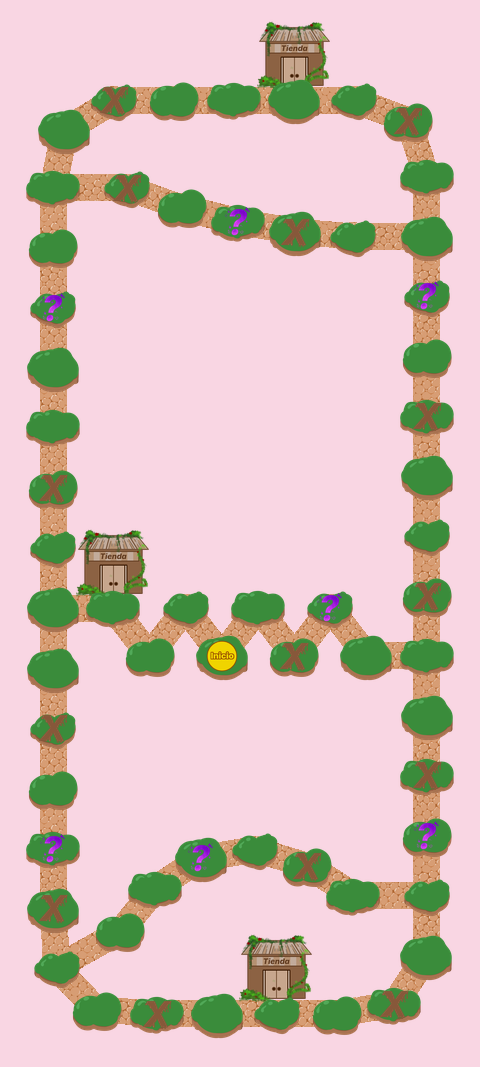
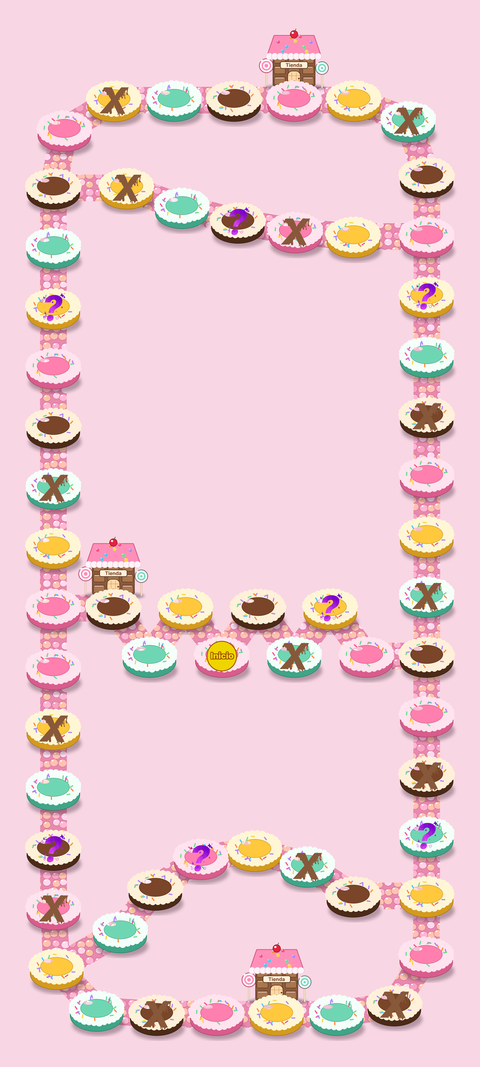
fix: arte propio de dulce para Mundo Dulce (plataformas, tienda y camino)
Mundo Dulce reutilizaba las piezas del Mapa 1 y se veía casi igual. Ahora
tiene plataformas de galleta con glaseado, una tienda de chocolatería y un
camino de caramelos, del mismo tamaño que las anteriores para no mover
ninguna casilla. Es arte provisional dibujado con código; el arte final se
reemplaza con los mismos nombres.

- mapa.tmj apunta a assets/images/mapa/dulces/ y la vista previa se compone
  de nuevo.
- Prueba de que el mapa usa su carpeta y no las piezas del Mapa 1.
- Decisión D-59.

Changed region(s): [[0.0312, 0.0, 0.9688, 0.9897]]

diff --git a/test/services/map/mapa_dulces_test.dart b/test/services/map/mapa_dulces_test.dart
@@ -1,3 +1,4 @@
+import 'dart:convert';
 import 'dart:io';
 
 import 'package:flutter_test/flutter_test.dart';
@@ -273,6 +274,57 @@ void main() {
         MapThemeCatalog.classic.pathOf(ThemeAsset.negativeMark),
       );
       expect(resolved.describeFallbacks(), contains('marca_negativa.png'));
+    });
+  });
+
+  group('arte propio', () {
+    // Mundo Dulce tiene que verse distinto del Mapa 1: sus plataformas y su
+    // tienda son de dulce, no los arbustos y la cabaña de madera del Mapa 1.
+    final tmj =
+        jsonDecode(File('assets/maps/mapa_dulces/mapa.tmj').readAsStringSync())
+            as Map<String, dynamic>;
+    final images = <String>{
+      for (final tileset in tmj['tilesets'] as List)
+        for (final tile in (tileset as Map<String, dynamic>)['tiles'] as List)
+          (tile as Map<String, dynamic>)['image'] as String,
+    };
+
+    test('sus plataformas y su tienda salen de su propia carpeta', () {
+      expect(images, hasLength(5));
+      for (final image in images) {
+        expect(image, contains('/mapa/dulces/'), reason: image);
+        expect(image, isNot(contains('/mapa/piezas/')), reason: image);
+      }
+    });
+
+    test('todas las imágenes existen', () {
+      for (final image in images) {
+        final path = 'assets/maps/mapa_dulces/$image';
+        expect(File(path).existsSync(), isTrue, reason: path);
+      }
+    });
+
+    test('no se parecen a las del Mapa 1 (no son la misma imagen)', () {
+      for (final name in [
+        'plataforma_01',
+        'plataforma_02',
+        'plataforma_03',
+        'plataforma_04',
+      ]) {
+        expect(
+          File('assets/images/mapa/dulces/$name.png').readAsBytesSync(),
+          isNot(File('assets/images/mapa/piezas/$name.png').readAsBytesSync()),
+          reason: name,
+        );
+      }
+      expect(
+        File('assets/themes/dulces/textura_camino.png').readAsBytesSync(),
+        isNot(
+          File(
+            'assets/images/mapa/piezas/textura_camino.png',
+          ).readAsBytesSync(),
+        ),
+      );
     });
   });
 }

diff --git a/docs/decisiones.md b/docs/decisiones.md
@@ -805,3 +805,19 @@
 - **Fecha:** 2026-11-24
 - **Estado:** Aceptada
 - **Decisión:** al lanzar con un dado extra, la animación del dado (`DiceRollOverlay`) muestra **dos dados**: el normal y el extra, que cae un instante después y gira al revés. Cada uno aterriza con su número y la etiqueta dice "Ana sacó 4 y 5". Los dados extra de 9 caras (7 a 9) no tienen dibujo y se ven con su número. El resultado del juego no cambia; solo es visual.
+
+## D-59. Arte provisional propio para Mundo Dulce
+
+- **Fecha:** 2026-11-24
+- **Estado:** Aceptada (provisional, hasta tener el arte final)
+- **Problema:** Mundo Dulce reutilizaba las piezas del Mapa 1 (plataformas de arbusto, tienda de madera y camino de piedra), así que fuera del color del fondo se veía casi igual.
+- **Decisión:**
+  - Piezas propias en `assets/images/mapa/dulces/`, del mismo tamaño que las del Mapa 1 (384 × 320 las plataformas y 448 × 448 la tienda), para no mover ninguna casilla del `.tmj`:
+    - `plataforma_01` a `plataforma_04`: galletas con glaseado y chispas, en fresa, chocolate, menta y limón.
+    - `tienda_chocolateria.png`: la tienda hecha una tableta de chocolate con techo de glaseado y piruletas.
+  - `assets/themes/dulces/textura_camino.png` pasa a ser un camino de caramelos, en vez de la piedra del Mapa 1 teñida.
+  - `mapa.tmj` apunta a las piezas nuevas y la `preview.png` se compuso de nuevo con ellas.
+  - Las marcas de casilla (inicio, negativa y especial) y las flechas siguen siendo las del tema clásico.
+- **Origen:** dibujadas con código (Pillow) como provisional. No son el arte final de Isabella: cuando llegue, se reemplazan los archivos con los mismos nombres y tamaños y no hace falta tocar código.
+- **Prueba:** `mapa_dulces_test.dart` (grupo "arte propio") comprueba que el mapa usa su carpeta, que las imágenes existen y que no son las del Mapa 1.
+
